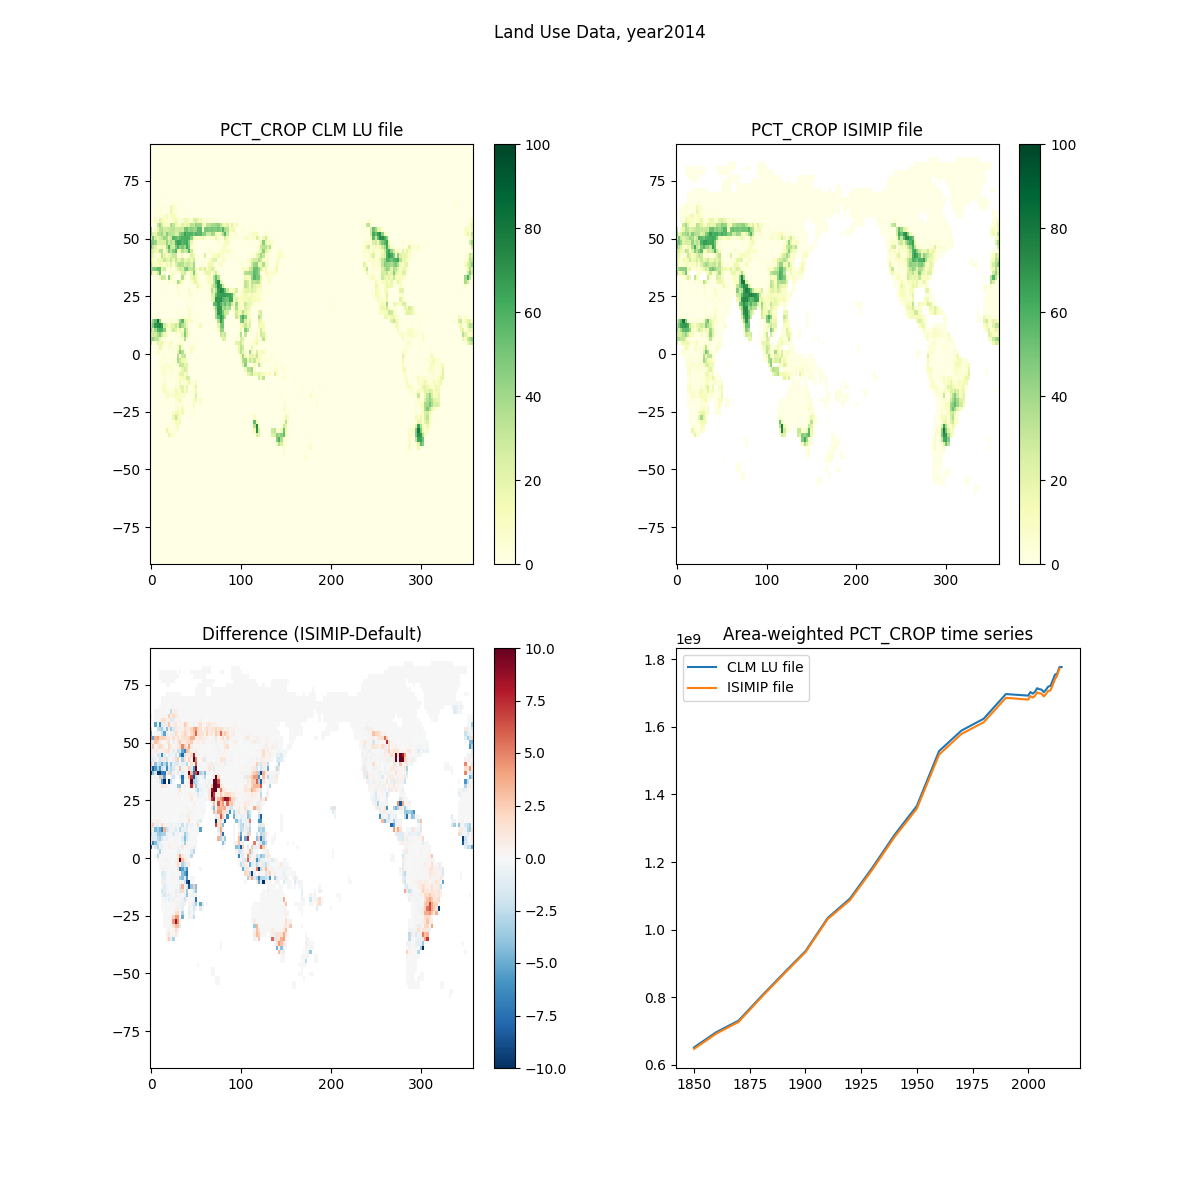
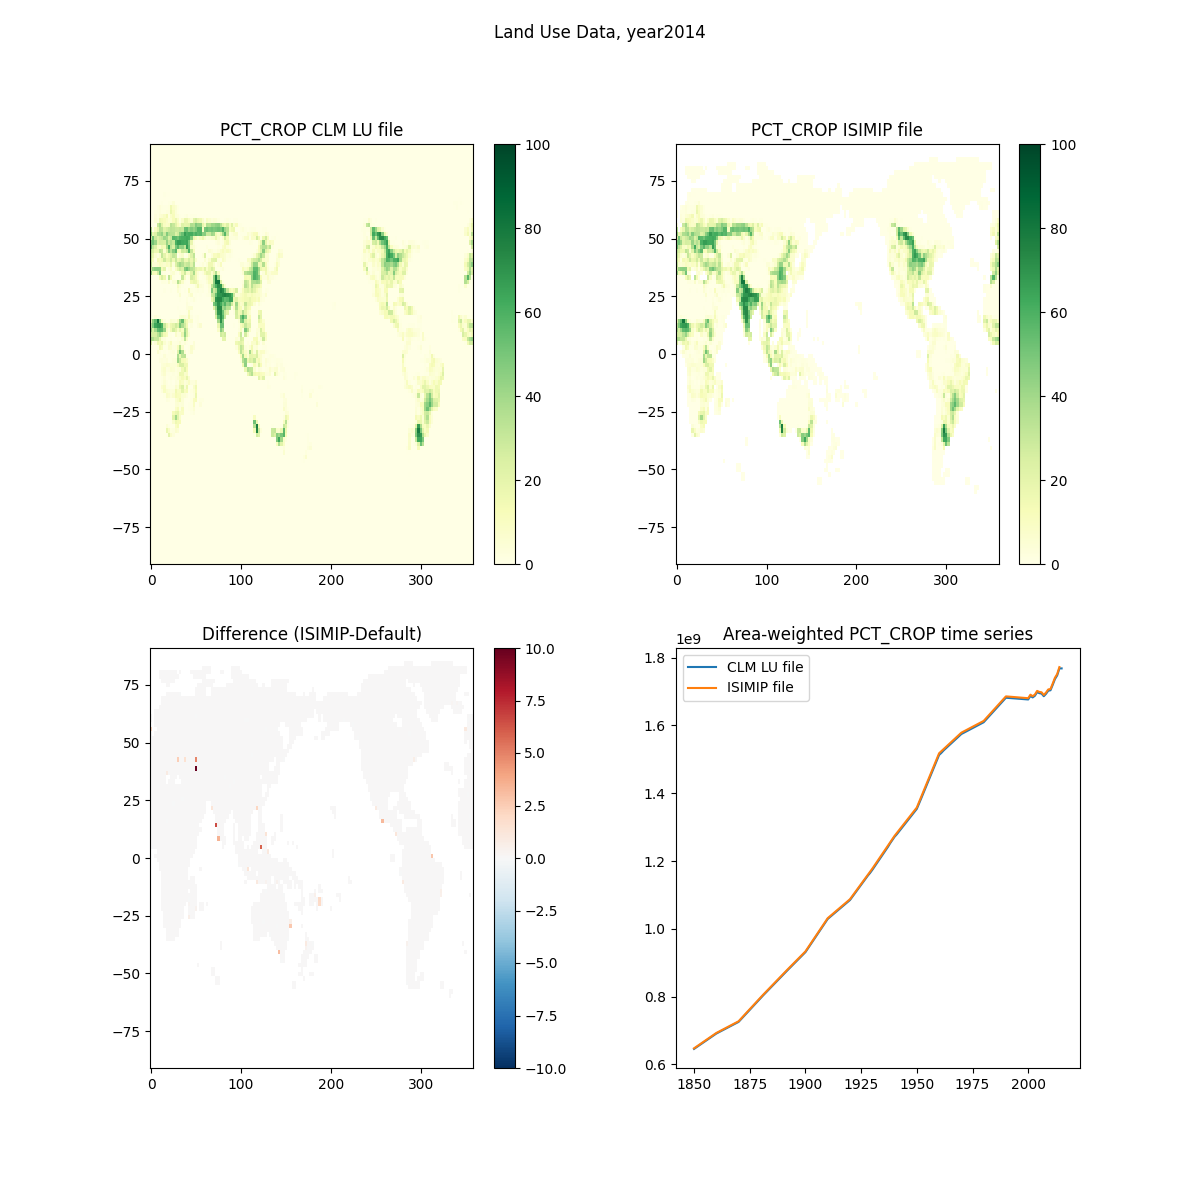
Fixed bug in Modify_landuse.py and added script to check weights
Fixed bug in Modify_landuse where small nagative values in input
LU timeseries (remaped ISIMIP data) was transphered to landuse
timeseries and violated CLM LU weight checks.

diff --git a/Print_check_LUwt.py b/Print_check_LUwt.py
@@ -1,0 +1,87 @@
+#!/usr/bin/env python
+
+import numpy as np
+import xarray as xr
+import netCDF4 as nc
+
+# define file names
+surf_file = '/cluster/work/users/kjetisaa/isimip_forc/Ohter_modified_files/surfdata_1.9x2.5_hist_78pfts_CMIP6_simyr1850_ESM2025.nc'
+lu_file = '/cluster/work/users/kjetisaa/isimip_forc/Ohter_modified_files/landuse.timeseries_1.9x2.5_hist_78pfts_CMIP6_simyr1850-2015_ESM2025.nc'
+#surf_file = '/cluster/work/users/kjetisaa/isimip_forc/Ohter_modified_files/surfdata_1.9x2.5_hist_78pfts_CMIP6_simyr1850_ESM2025.nc_org'
+# load the dataset
+
+#using nc
+#ds_surf = nc.Dataset(surf_file, mode='r')
+#pct_crop = ds_surf['PCT_CROP'][:]    
+#pct_natveg = ds_surf['PCT_NATVEG'][:]    
+#pct_lake = ds_surf['PCT_LAKE'][:]  
+#pct_glacier = ds_surf['PCT_GLACIER'][:]  
+#pct_urban = ds_surf['PCT_URBAN'][:]  
+#pct_nat_pft = ds_surf['PCT_NAT_PFT'][:]
+#pct_cft = ds_surf['PCT_CFT'][:]
+
+#using xr
+ds_surf = xr.open_dataset(surf_file, mode='r')
+pct_crop = ds_surf['PCT_CROP'].values
+pct_natveg = ds_surf['PCT_NATVEG'].values
+pct_lake = ds_surf['PCT_LAKE'].values
+pct_glacier = ds_surf['PCT_GLACIER'].values
+pct_urban = ds_surf['PCT_URBAN'].values
+pct_nat_pft = ds_surf['PCT_NAT_PFT'].values
+pct_cft = ds_surf['PCT_CFT'].values
+
+sum_urb = np.sum(pct_urban, axis=0)
+pct_all=pct_crop+pct_natveg + pct_lake + pct_glacier + sum_urb
+
+limit=100.0000000000001
+np.set_printoptions(precision=20)
+
+#Check for values outside range
+maskAbove = pct_all > limit
+maskBelow = pct_all < 0.
+print('here')
+print(pct_all[maskAbove])
+print(pct_all[maskBelow])
+
+#Check for values outside range
+maskAbove = pct_natveg > limit
+maskBelow = pct_natveg < 0.
+print('Check pct_natveg>100 or pct_natveg<0)')
+print(pct_natveg[maskAbove])
+print(pct_natveg[maskBelow])
+
+#Check for values outside range
+maskAbove = pct_crop > limit
+maskBelow = pct_crop < 0.
+print('Check pct_cft>100 or pct_cft<0)')
+print(pct_crop[maskAbove])
+print(pct_crop[maskBelow])
+
+sum_pft = np.sum(pct_nat_pft, axis=0)
+#Check for values outside range
+maskAbove = sum_pft > limit
+maskBelow = sum_pft < 0.
+print('Check sum_pft>100 or sum_pft<0)')
+print(sum_pft[maskAbove])
+print(sum_pft[maskBelow])
+
+sum_cft = np.sum(pct_cft, axis=0)
+#Check for values outside range
+maskAbove = sum_cft > limit
+maskBelow = sum_cft < 0.
+print('Check sum_cft>100 or sum_cft<0)')
+print(sum_cft[maskAbove])
+print(sum_cft[maskBelow])
+
+#Check LU dataset
+ds_LU = xr.open_dataset(lu_file , mode='r')
+pct_cropLU = ds_LU['PCT_CROP'].values
+maskAbove = pct_cropLU > limit
+maskBelow = pct_cropLU < 0.
+print('Check pct_crop>100 or pct_crop<0) in LU dataset')
+print(pct_cropLU[maskAbove])
+print(pct_cropLU[maskBelow])
+
+# Close files (if using nc, not xr)
+#ds_surf.close()
+#ds_LU.close()

diff --git a/Modify_landuse.py b/Modify_landuse.py
@@ -1,11 +1,11 @@
 #!/usr/bin/env python
 
 import numpy as np
-import xarray as xr
 import netCDF4 as nc
 import subprocess
 import os
 import Plot_LU
+import Plot_Surf
 
 from matplotlib import pyplot as plt
 
@@ -32,17 +32,37 @@ Plot_LU.plot_land_use_data(ds_LU, ds_isimip, 164, 'Crop_maps' )
 ds_LUnew=ds_LU
 pct_crop_old=ds_surf['PCT_CROP'][:]
 
-pct_cropISIMIP = ds_isimip['cropland_total'][:]
-pct_cropISIMIPNoNan = np.where(pct_cropISIMIP>1., 0, pct_cropISIMIP)
+frac_cropISIMIP = ds_isimip['cropland_total'][:]
+frac_cropISIMIP = np.where(frac_cropISIMIP>1., 0, frac_cropISIMIP)
+frac_cropISIMIP = np.where(frac_cropISIMIP<0., 0, frac_cropISIMIP)
 
-ds_surf['PCT_CROP'][:]=pct_cropISIMIPNoNan[0,:,:] * 100 
-ds_surf['PCT_NATVEG'][:]=ds_surf['PCT_NATVEG']+pct_crop_old-ds_surf['PCT_CROP'][:]
-ds_LU['PCT_CROP'][0:-1,:,:].values=pct_cropISIMIPNoNan * 100 
+pct_crop = ds_surf['PCT_CROP'][:]    
+pct_natveg = ds_surf['PCT_NATVEG'][:]    
+pct_lake = ds_surf['PCT_LAKE'][:]  
+pct_glacier = ds_surf['PCT_GLACIER'][:]  
+pct_urban = ds_surf['PCT_URBAN'][:]  
+sum_urb = np.sum(pct_urban, axis=0)
+sum_all = pct_natveg + pct_crop + pct_lake + pct_glacier + sum_urb
+pct_natcrop = pct_natveg + pct_crop
+# overwrite pct_crop, only where original file had nat+crop>0
+pct_cropnew = frac_cropISIMIP[0,:,:] * 100
+pct_cropnew = np.where(pct_natcrop>=pct_cropnew, pct_cropnew, pct_crop)
+ds_surf['PCT_CROP'][:] = pct_cropnew
+# update pct_natveg, consistent with all pct
+ds_surf['PCT_NATVEG'][:] =  sum_all - pct_cropnew - pct_lake - pct_glacier - sum_urb
+
+# update landuse timeseries
+pct_cropLU = ds_LU['PCT_CROP'][:]    
+pct_cropnewLU = frac_cropISIMIP * 100 
+pct_cropnewLU = np.where(pct_natcrop>=pct_cropnewLU, pct_cropnewLU, pct_cropLU[-1,:,:])
+ds_LU['PCT_CROP'][0:-1,:,:]=pct_cropnewLU
 ds_LU['PCT_CROP'][-1,:,:]=ds_LU['PCT_CROP'][-2,:,:]
 
 # Plot modified files
 Plot_LU.plot_land_use_data(ds_LU, ds_isimip, 0, 'Crop_maps_AfterModify' )
 Plot_LU.plot_land_use_data(ds_LU, ds_isimip, 164, 'Crop_maps_AfterModify' ) 
+
+Plot_Surf.plot_surface(ds_surf,'Surf_AfterModify')
 
 # Save the modified NetCDF file
 ds_LU.close()

diff --git a/Plot_Surf.py b/Plot_Surf.py
@@ -1,0 +1,57 @@
+import numpy as np
+import xarray as xr
+import matplotlib.pyplot as plt
+
+def plot_surface(ds, figname_in):
+    filename='Figures/' + figname_in + '.png'
+    # CLM LU data
+    pct_crop = ds['PCT_CROP'][:]    
+    pct_natveg = ds['PCT_NATVEG'][:]    
+    pct_lake = ds['PCT_LAKE'][:]  
+    pct_glacier = ds['PCT_GLACIER'][:]  
+    pct_urban = ds['PCT_URBAN'][:]  
+    sum_urb = np.sum(pct_urban, axis=0)
+    lat = ds['LATIXY'][:]
+    lon = ds['LONGXY'][:]
+    area = ds['AREA'][:]
+    
+    # Create figure
+    fig, axs = plt.subplots(nrows=2, ncols=2, figsize=(12, 12), subplot_kw={'projection': 'rectilinear'})
+    fig.suptitle('Surface data')
+
+    # Plot pct_crop on top left subplot
+    im1 = axs[0, 0].pcolormesh(lon, lat, pct_crop, cmap='YlGn', vmin=0, vmax=100)
+    axs[0, 0].set_title('PCT_CROP surf file')
+    fig.colorbar(im1, ax=axs[0, 0])
+
+    # Plot pct_crop from LU file on top right subplot
+    im2 = axs[0, 1].pcolormesh(lon, lat, pct_natveg, cmap='YlGn', vmin=0, vmax=100)    
+    axs[0, 1].set_title('PCT_NATVEG surf file')
+    fig.colorbar(im2, ax=axs[0, 1])
+
+    # Plot difference on lower left subplot
+    pct_all=pct_crop+pct_natveg+ pct_lake + pct_glacier + sum_urb
+
+    im3 = axs[1, 0].pcolormesh(lon, lat, pct_all, cmap='YlGn', vmin=90, vmax=110)
+    axs[1, 0].set_title('PCT_CROP + PCT_NATCEG + PCT_GLACIER + PCT_LAKE3')
+    fig.colorbar(im3, ax=axs[1, 0])
+
+    #Check for values outside range
+    maskAbove = pct_all > 100.0000000000001
+    maskBelow = pct_all < 0.
+    np.set_printoptions(precision=20)
+    print('here')
+    print(pct_all[maskAbove])
+    print(pct_all[maskBelow])
+
+#    pct_all = np.where(pct_all > 100, 200, pct_all)
+#    pct_all = np.where(pct_all < 0, -200, pct_all)
+    im4 = axs[1, 1].pcolormesh(lon, lat, pct_all, cmap='RdBu_r', vmin=99.9999, vmax=100.0001)    
+    axs[1, 1].set_title('Points with tot area > 100% (set to 200)')
+    fig.colorbar(im4, ax=axs[1, 1])
+
+    # Adjust subplots and save figure
+    plt.subplots_adjust(wspace=0.3)
+    plt.savefig(filename)
+
+    return fig
